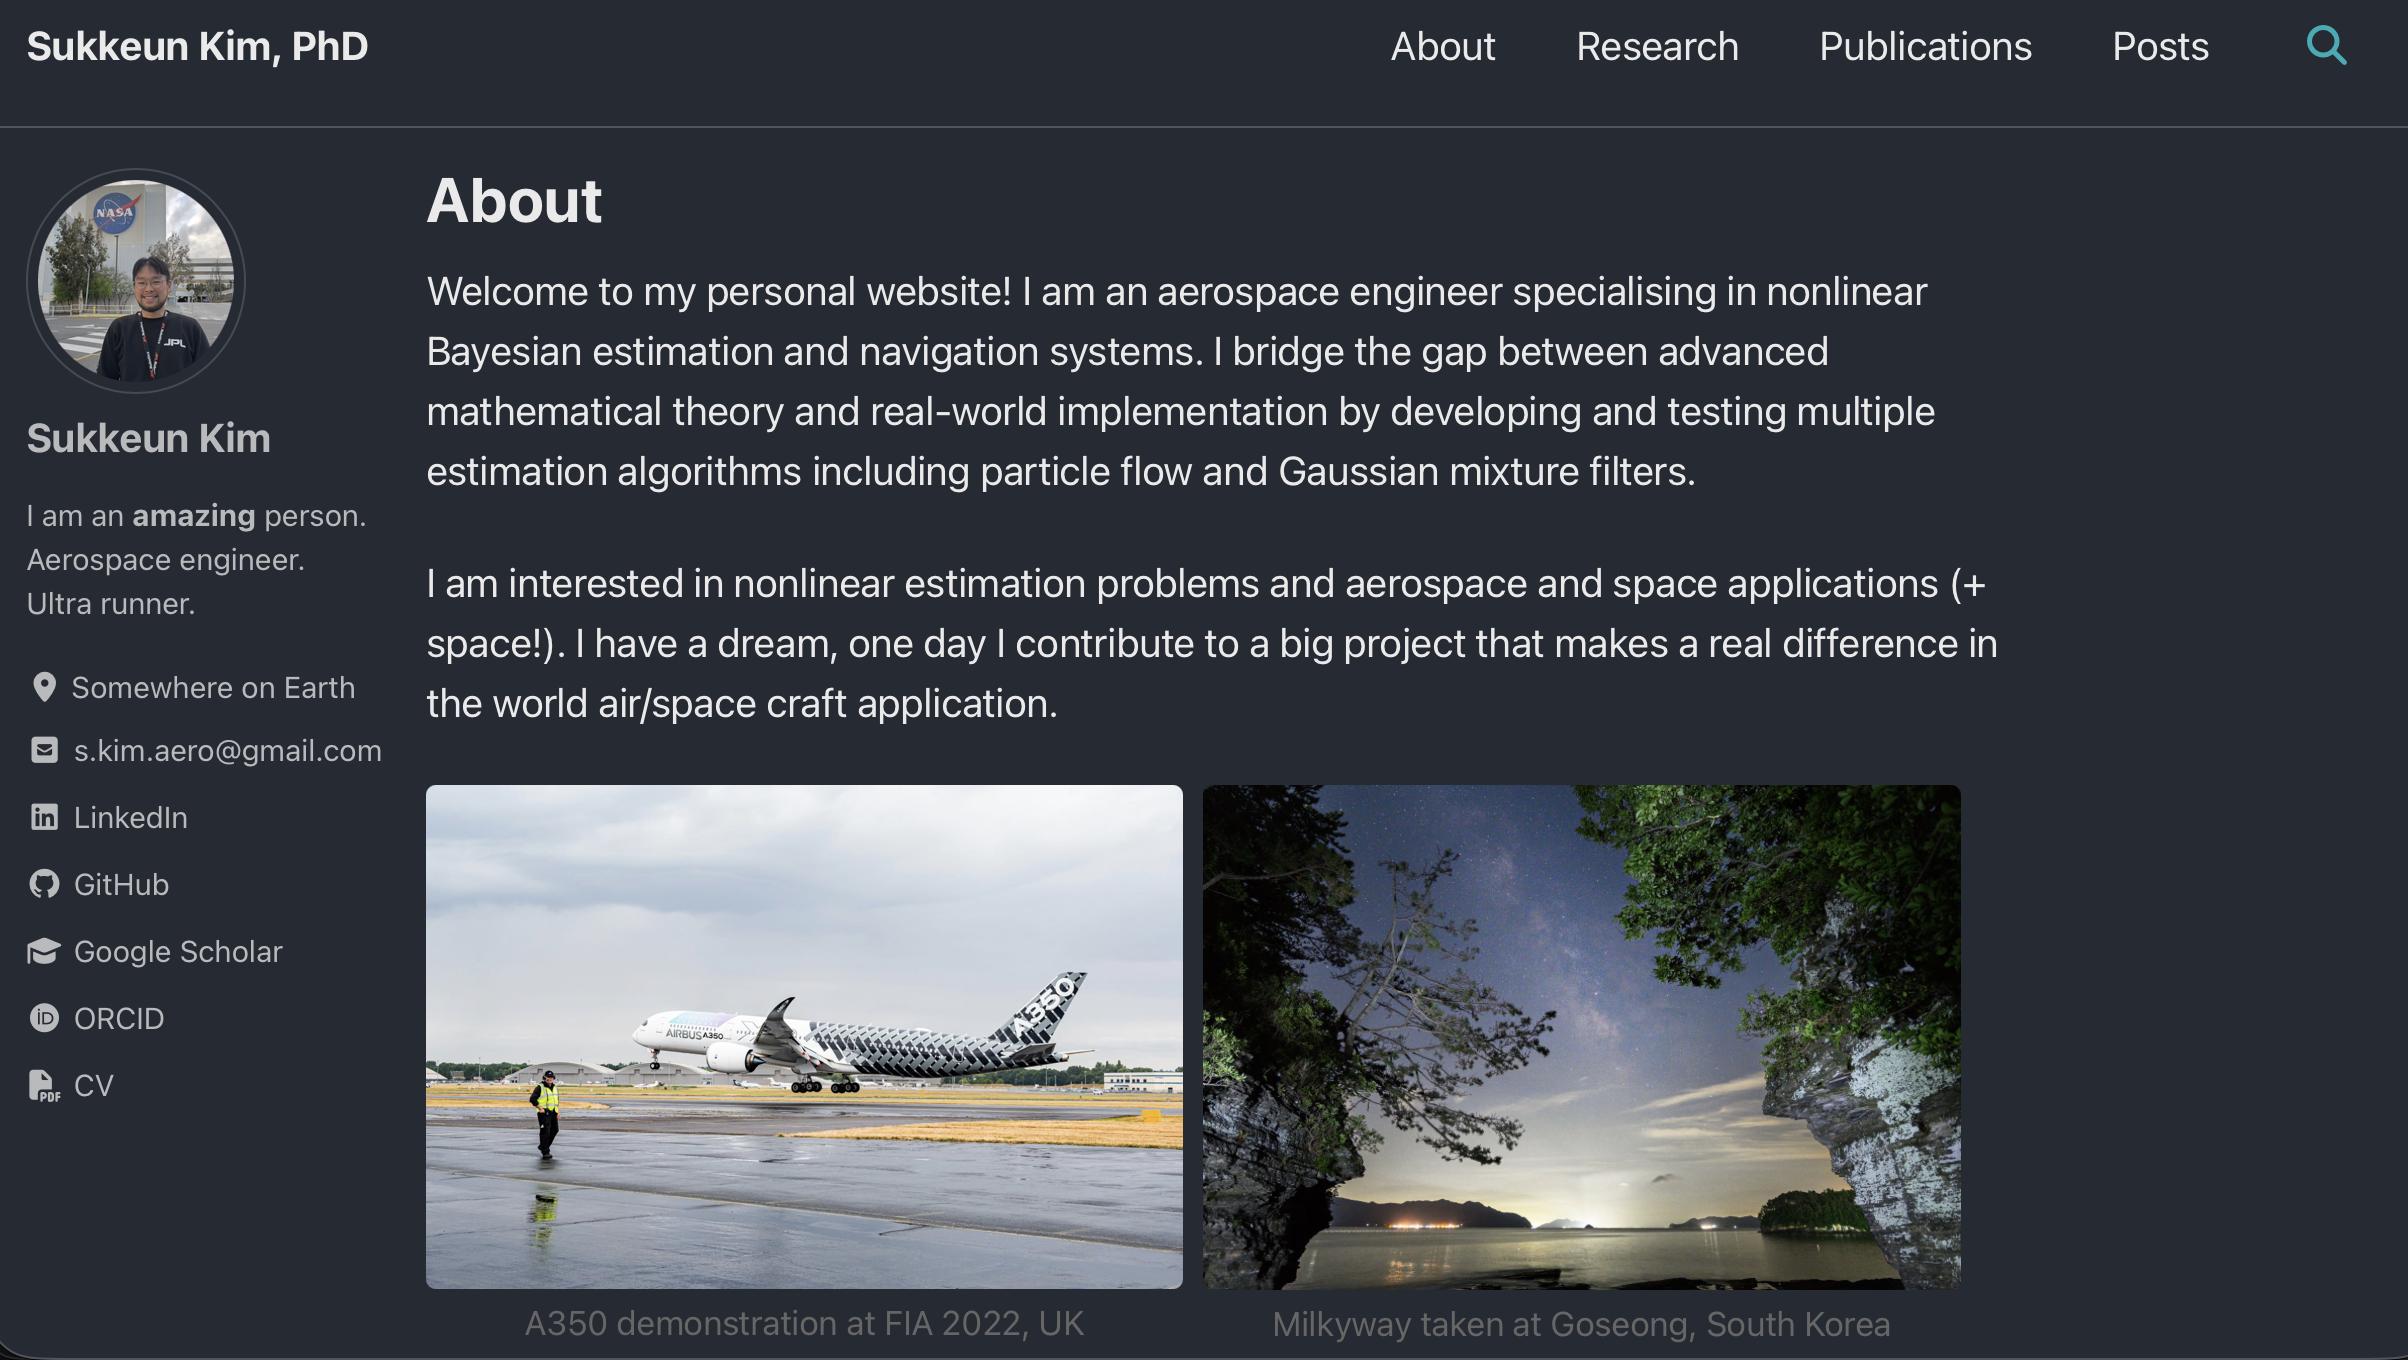
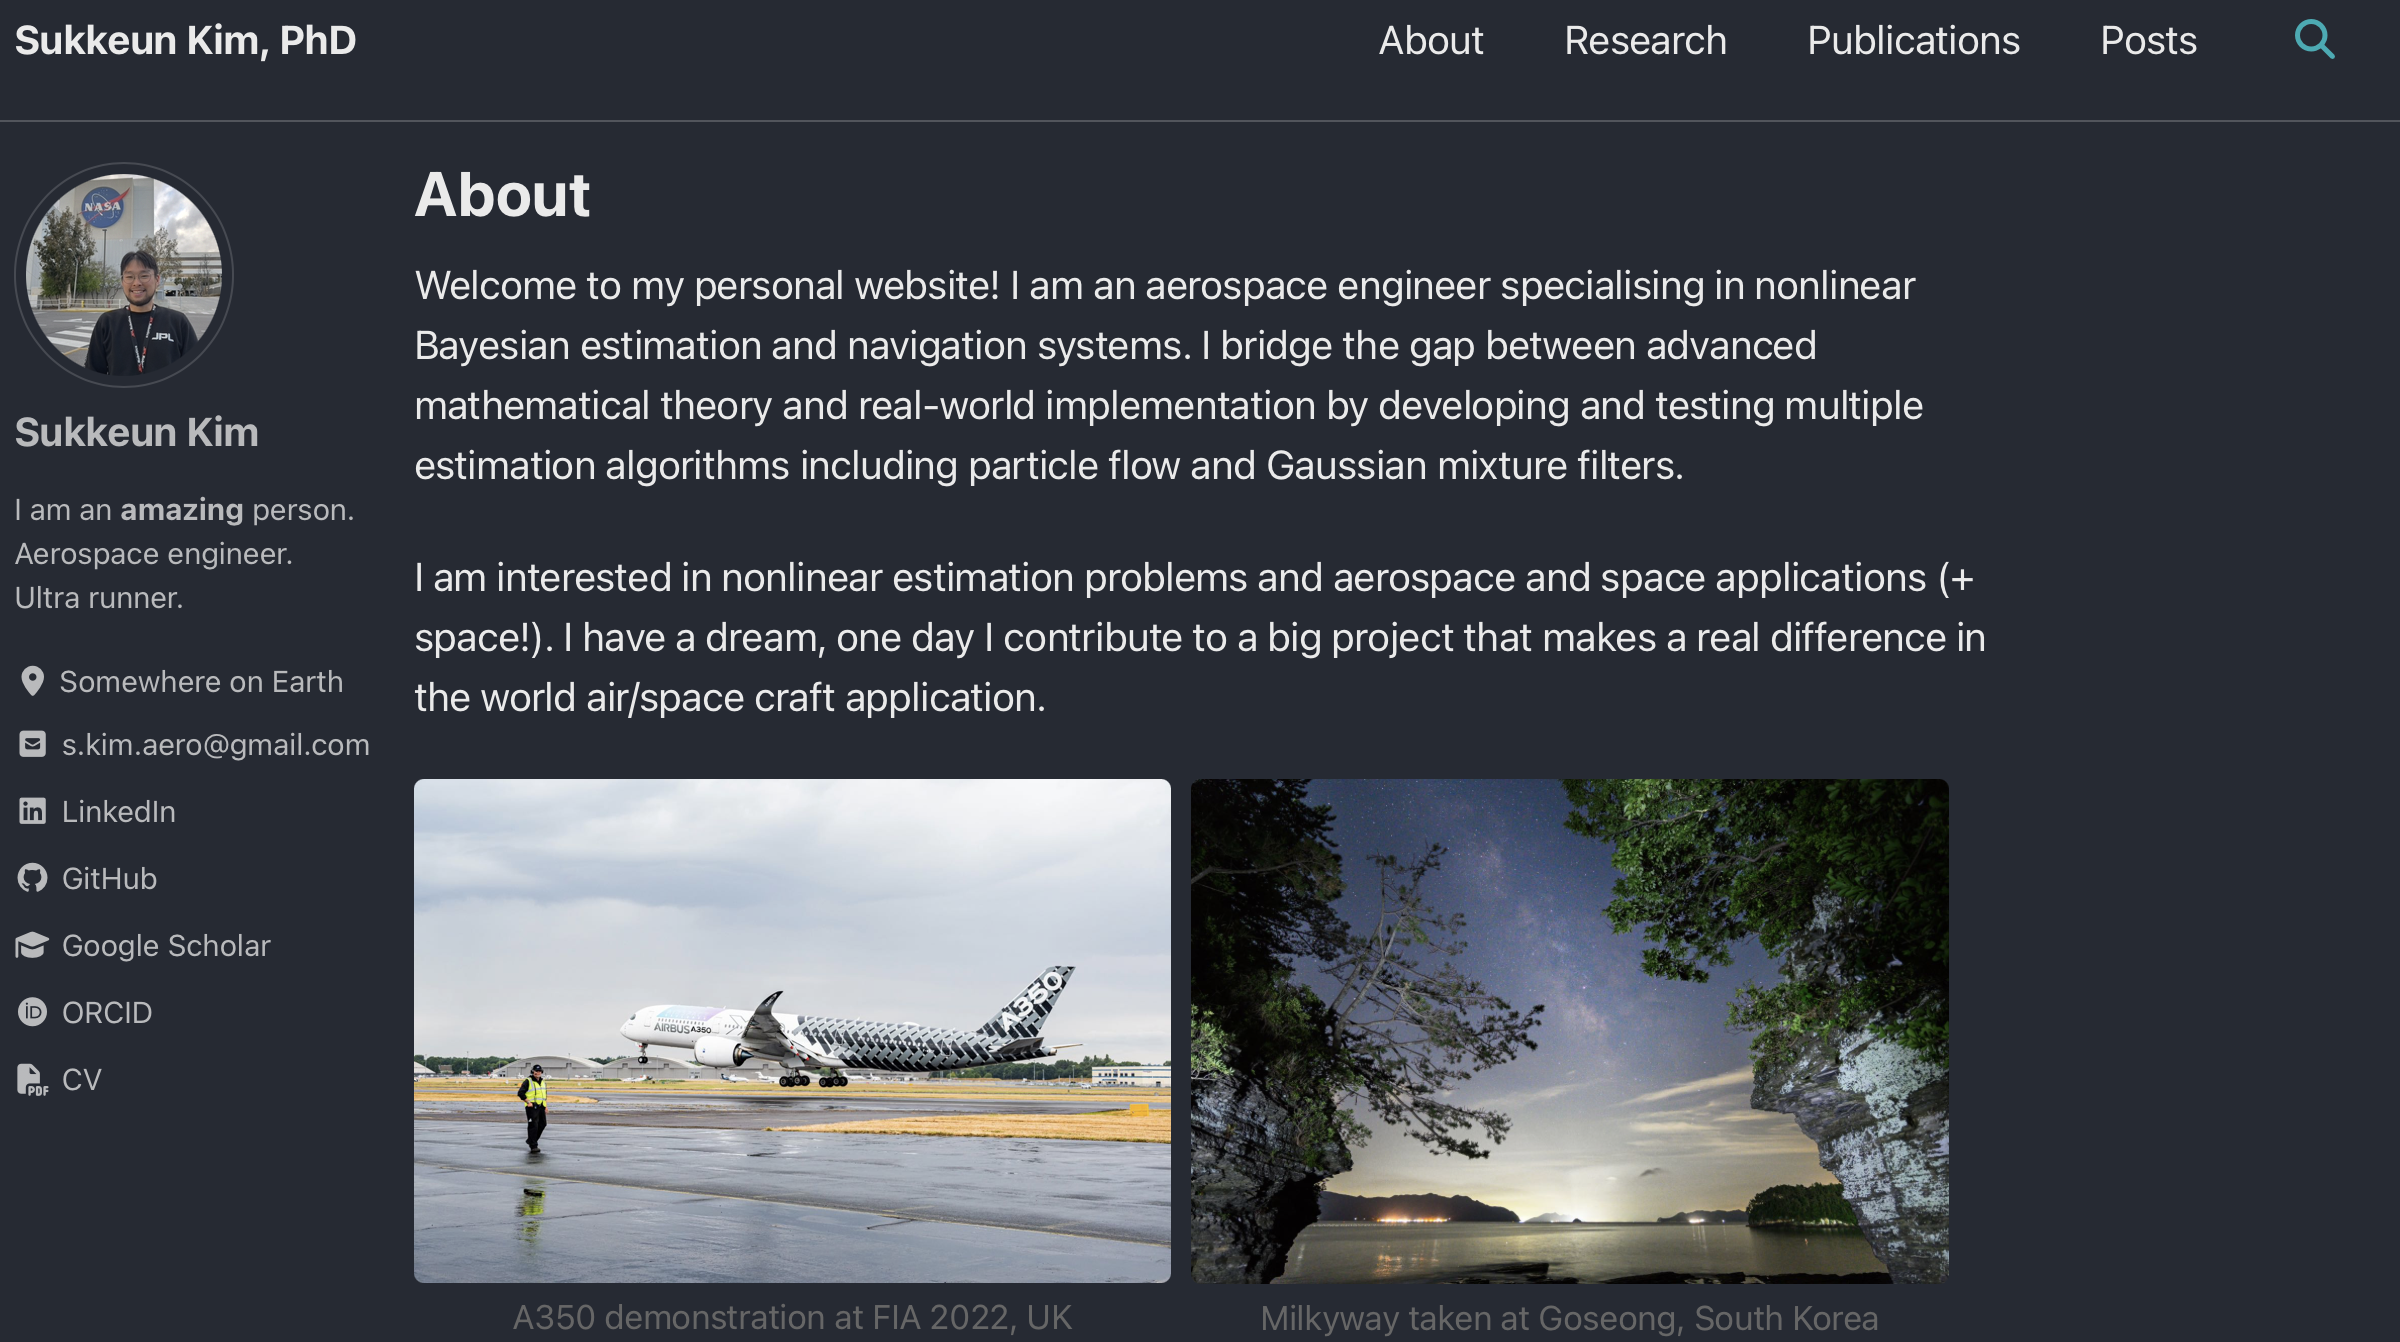
First post update

diff --git a/_posts/2026-10-03-website-open.md b/_posts/2026-10-03-website-open.md
@@ -9,9 +9,9 @@ tags: [Life, Updates]
 Welcome, everyone, whether you know me personally or not. I am happy that you visited this random website and are reading this random post! In this post, I would like to tell you a short story about why and how I started this small project of creating my new website. Maybe it is not that interesting, but just give it a try. In addition to that, since this is my very first post on my new website, things might not be perfect, but I believe you would be fine with that!
 
 <div style="margin: 25px 0;">
-  <img src="/assets/images/New_website.png" alt="My brand new website with GitHub" style="width: 80%; border-radius: 5px; display: block; margin: 0 auto;">
+  <img src="/assets/images/New_website.png" alt="The main page of my brand new website with GitHub" style="width: 80%; border-radius: 5px; display: block; margin: 0 auto;">
   <p style="font-size: 0.85em; color: #666; margin: 8px 0 25px 0; text-align: center;">
-    My brand new website with GitHub
+    The main page of my brand new website with GitHub
   </p>
 </div>
 
